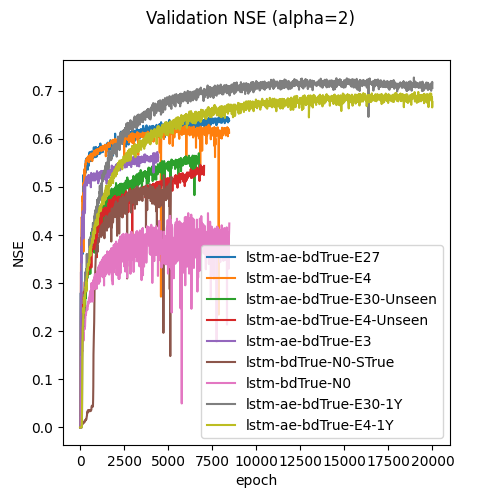
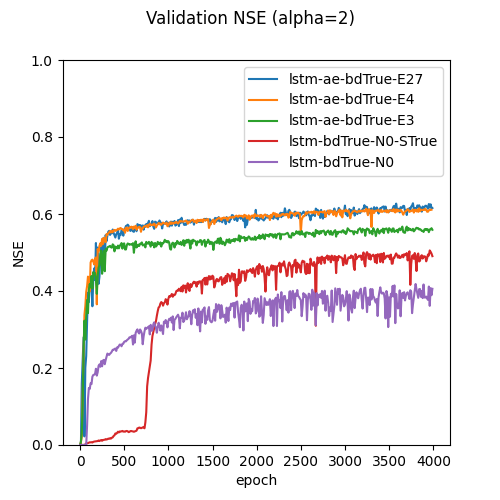
uP

diff --git a/src/analysis_basins.py b/src/analysis_basins.py
@@ -34,7 +34,7 @@ if __name__ == '__main__':
     #dates = ["1989/10/01", "2009/09/30"] 
     dates = ["1980/10/01", "2010/09/30"] # interval dates to pick
     force_attributes = ["prcp(mm/day)", "srad(W/m2)", "tmin(C)", "tmax(C)", "vp(Pa)"] # force attributes to use
-    camel_dataset = CamelDataset(dates, force_attributes, debug=False)
+    camel_dataset = CamelDataset(dates, force_attributes)
     #dataset.adjust_dates() # adjust dates if necessary
     camel_dataset.load_data() # load data
     camel_dataset.load_statics()
@@ -76,7 +76,7 @@ if __name__ == '__main__':
     # entire test dataset as one batch
     test_dataloader = DataLoader(test_dataset, batch_size=num_test_data, num_workers=num_workers, shuffle=False)
     split_indices = test_dataset.indices
-    basin_names = [camel_dataset.loaded_basin_names[idx] for idx in split_indices]
+    #basin_names = [camel_dataset.loaded_basin_names[idx] for idx in split_indices]
     print("Indices for training dataset: ", train_dataset.indices)
     print("Indices for validation dataset: ", val_dataset.indices)
     print("Indices for test dataset: ", split_indices)

diff --git a/src/analysis_loss.py b/src/analysis_loss.py
@@ -33,7 +33,8 @@ if __name__ == '__main__':
         # reorder
         epochs_mod, nse_mod = zip(*sorted(zip(epochs_mod, nse_mod)))
         # plot
-        ax.plot(epochs_mod,nse_mod, label=name)
+        ax.set_ylim(0,1)
+        ax.plot(epochs_mod[:400],nse_mod[:400], label=name)
         # find best model
         idx_ae = np.argmax(nse_mod)
         epoch_max_nse = epochs_mod[idx_ae]
